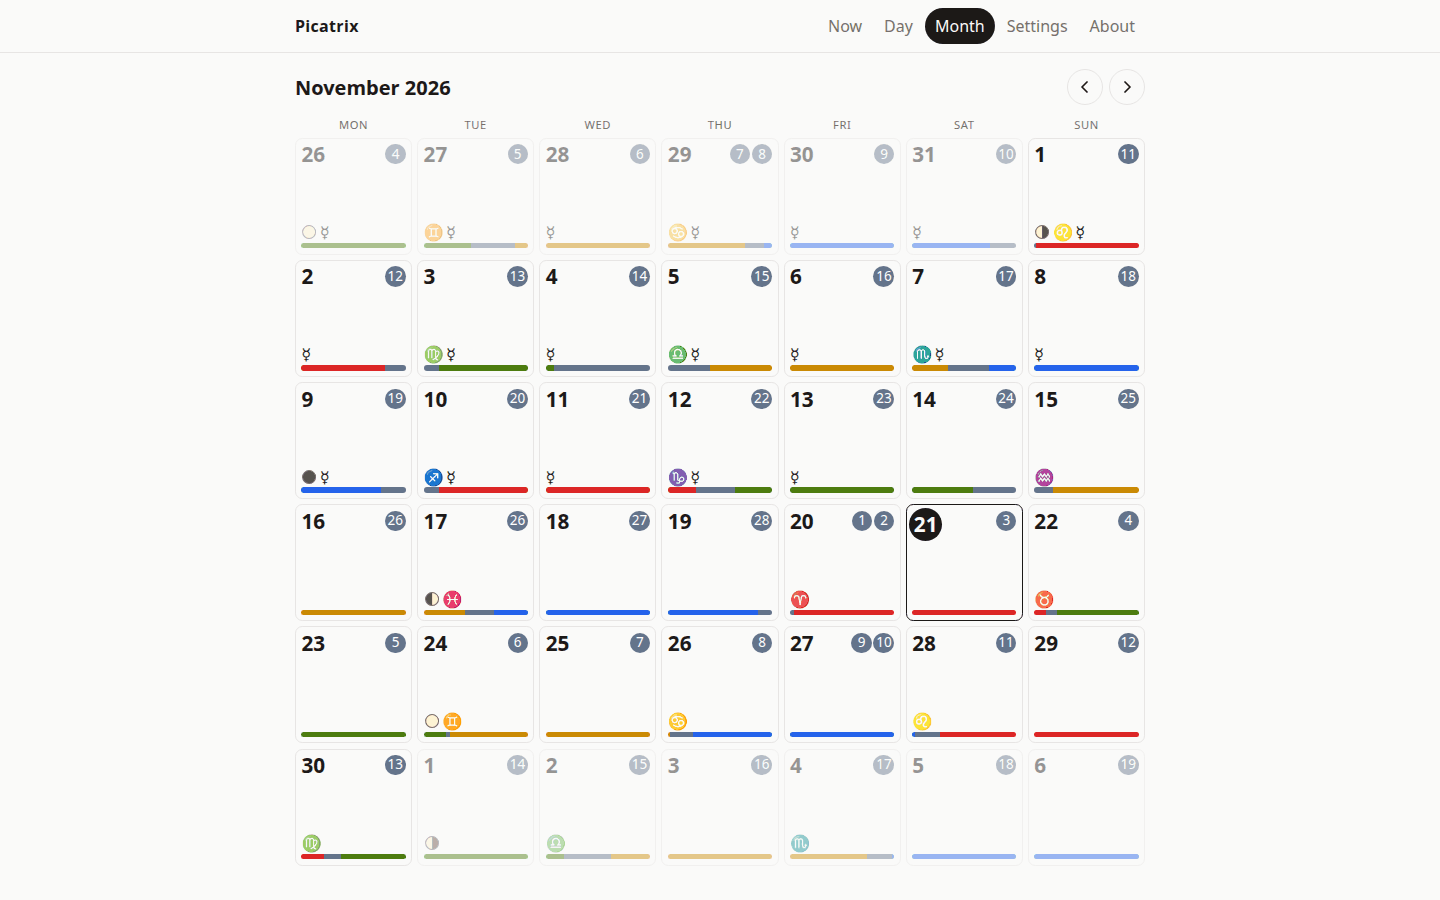
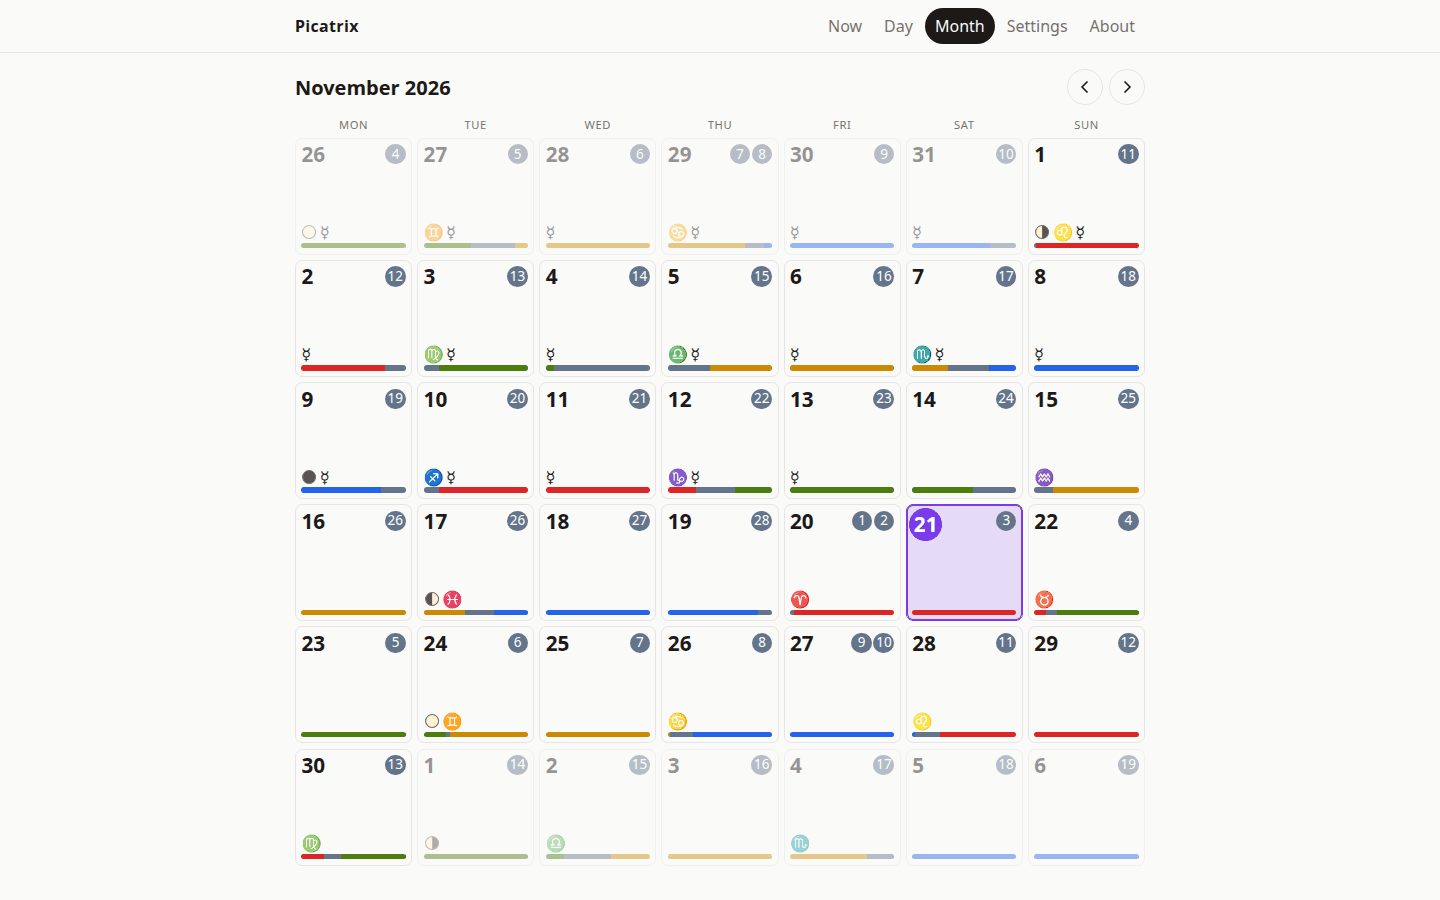
fix(month): mark today with a violet accent
Today's cell gets an accent color that no element uses: a tinted
background, a violet border, and a violet date circle, in both themes.
The cell also carries aria-current="date" for screen readers.

Changed region(s): [[0.625, 0.56, 0.7188, 0.7156]]

diff --git a/src/styles.css b/src/styles.css
@@ -11,6 +11,8 @@
   --line: #e7e5e4;
   --moon-lit: #fdf3d0;
   --moon-dark: #57534e;
+  --accent: #7c3aed;
+  --on-accent: #fff;
   --page: 40rem;
   color-scheme: light;
 }
@@ -22,6 +24,8 @@
     --muted: #a8a29e;
     --line: #292524;
     --moon-dark: #292524;
+  --accent: #a78bfa;
+  --on-accent: #0c0a09;
     color-scheme: dark;
   }
 }
@@ -32,6 +36,8 @@
   --muted: #a8a29e;
   --line: #292524;
   --moon-dark: #292524;
+  --accent: #a78bfa;
+  --on-accent: #0c0a09;
   color-scheme: dark;
 }
 
@@ -496,7 +502,9 @@ main {
 }
 
 .month-cell.today {
-  border-color: var(--fg);
+  border-color: var(--accent);
+  box-shadow: inset 0 0 0 1px var(--accent);
+  background: color-mix(in srgb, var(--accent) 16%, var(--bg));
 }
 
 .month-cell.today .cell-day {
@@ -508,8 +516,8 @@ main {
   margin: -0.15em;
   padding: 0 0.2em;
   border-radius: 999px;
-  background: var(--fg);
-  color: var(--bg);
+  background: var(--accent);
+  color: var(--on-accent);
 }
 
 .cell-head {

diff --git a/tests/views/month.test.tsx b/tests/views/month.test.tsx
@@ -64,6 +64,8 @@ test('renders 42 cells with the pinned Nov 2026 marks at the fixed clock', () =>
   expect(within(nov20).getByText('2')).toBeTruthy()
   expect(nov20.classList.contains('today')).toBe(true)
   expect(cell(container, '2026-11-21').classList.contains('today')).toBe(false)
+  expect(nov20.getAttribute('aria-current')).toBe('date')
+  expect(container.querySelectorAll('[aria-current="date"]')).toHaveLength(1)
 })
 
 test('shows the full Moon glyph on Nov 24 and the new Moon glyph on Nov 9', () => {

diff --git a/src/views/Month.tsx b/src/views/Month.tsx
@@ -74,6 +74,7 @@ function Cell({
       type="button"
       class={classes.join(' ')}
       aria-label={cellLabel(cell)}
+      aria-current={today ? 'date' : undefined}
       disabled={!cell.inRange}
       onClick={() => {
         location.hash = `#/day/${dayKey(cell.date)}`

diff --git a/README.md b/README.md
@@ -29,7 +29,7 @@ Now shows one card for each of the five items, for the current moment. Use the a
 
 Day lists every change during one day, with times in your time zone. Use the arrows to move one day, or the calendar button to jump to a date.
 
-Month shows a calendar. Each day shows its date, its mansion numbers, small symbols for Moon phases, sign changes, and Mercury retrograde, and a colored bar. The bar shows the element of the Moon's sign through the day: red for fire, green for earth, yellow for air, blue for water, and gray for void of course. Today has its date in a filled circle. Select a day to open it in Day.
+Month shows a calendar. Each day shows its date, its mansion numbers, small symbols for Moon phases, sign changes, and Mercury retrograde, and a colored bar. The bar shows the element of the Moon's sign through the day: red for fire, green for earth, yellow for air, blue for water, and gray for void of course. Today has a violet outline and its date in a violet circle. Select a day to open it in Day.
 
 Select any card or row to open its lore. Close the lore with the Close button, the Escape key, or a tap outside it.
 
